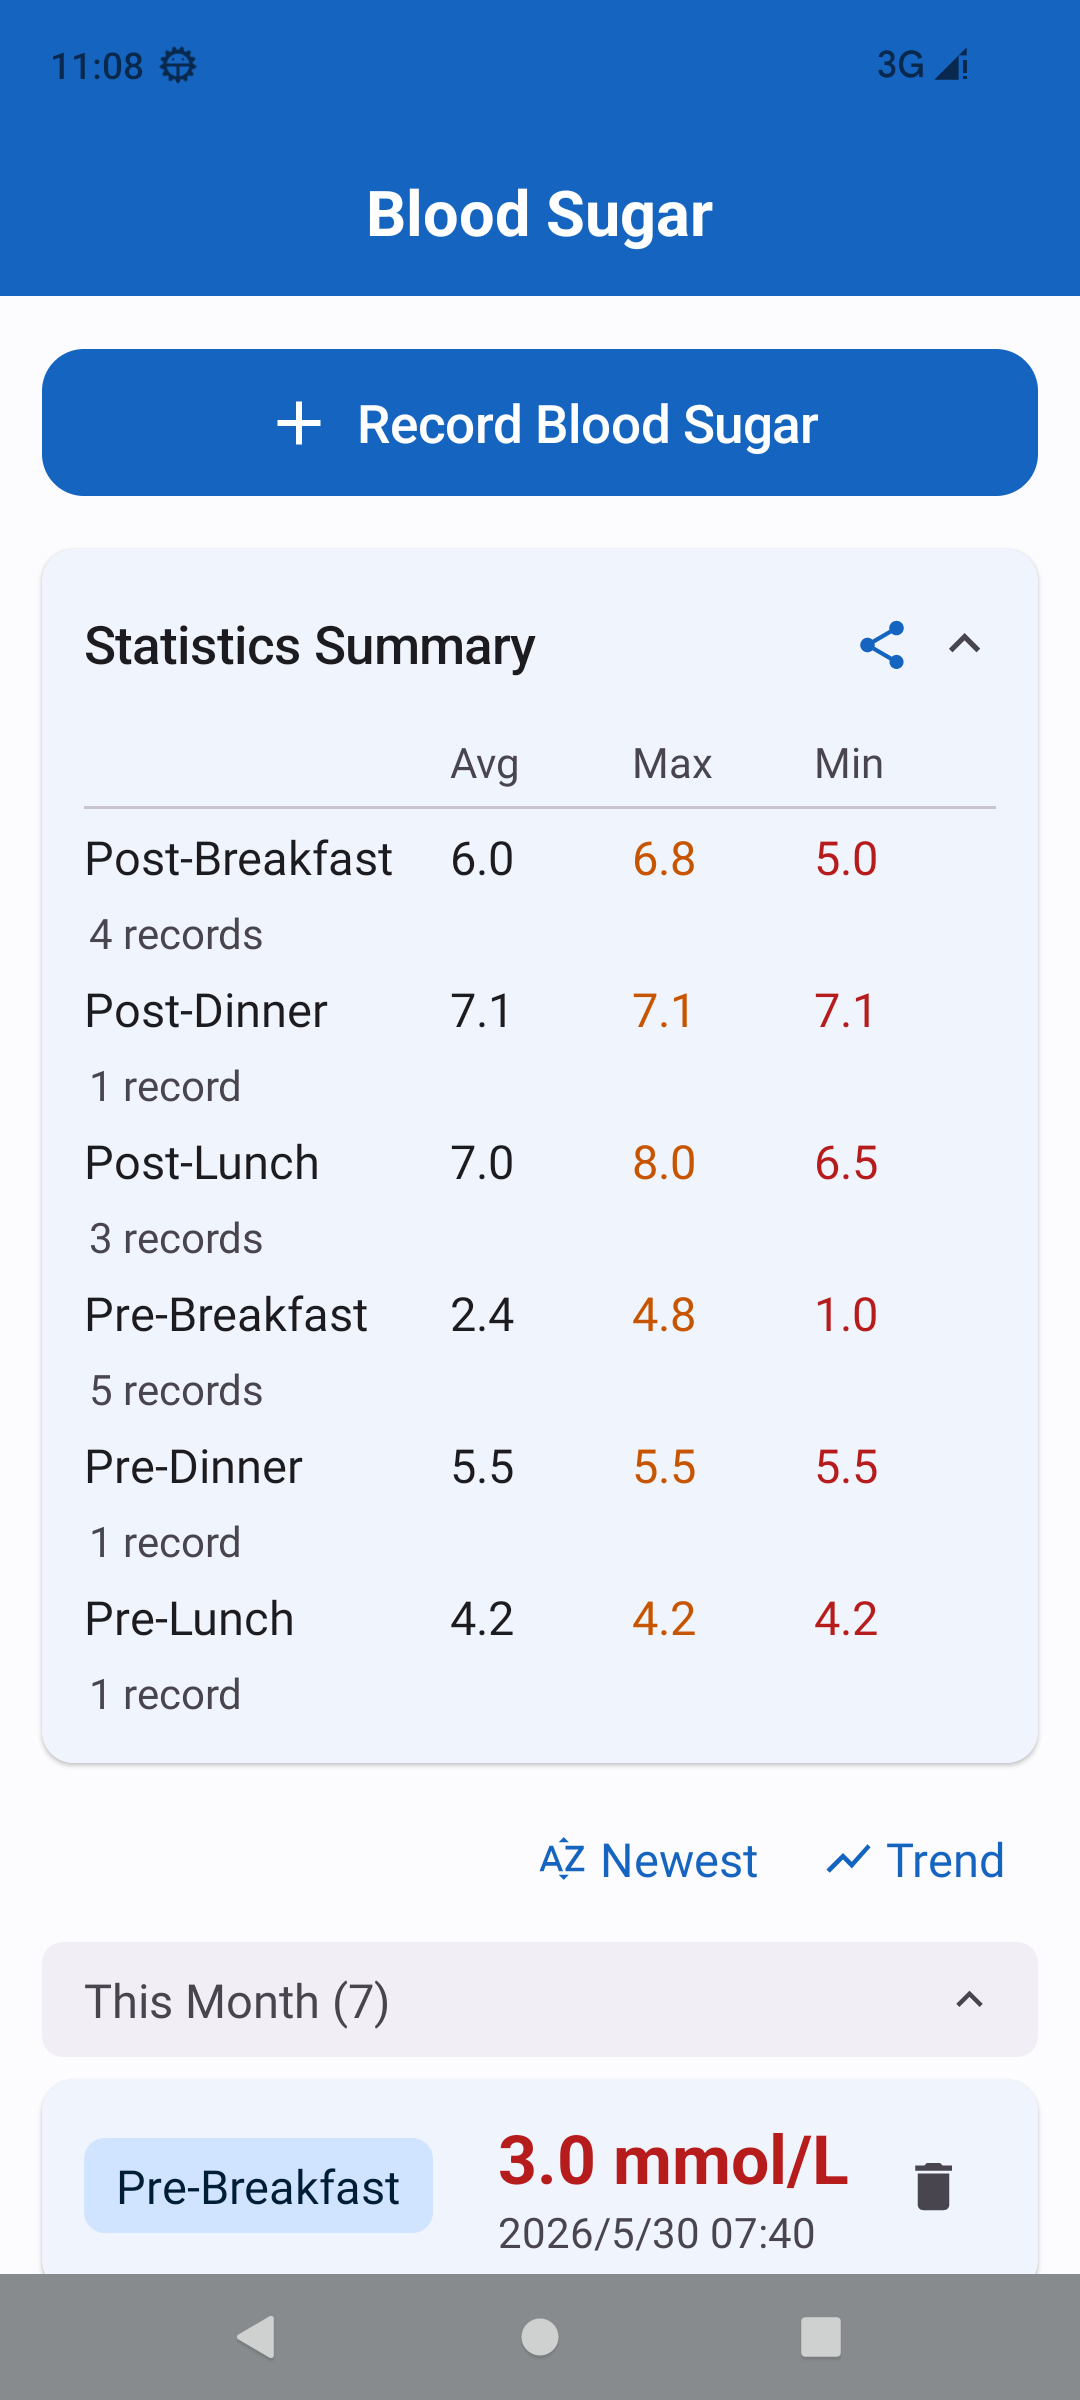
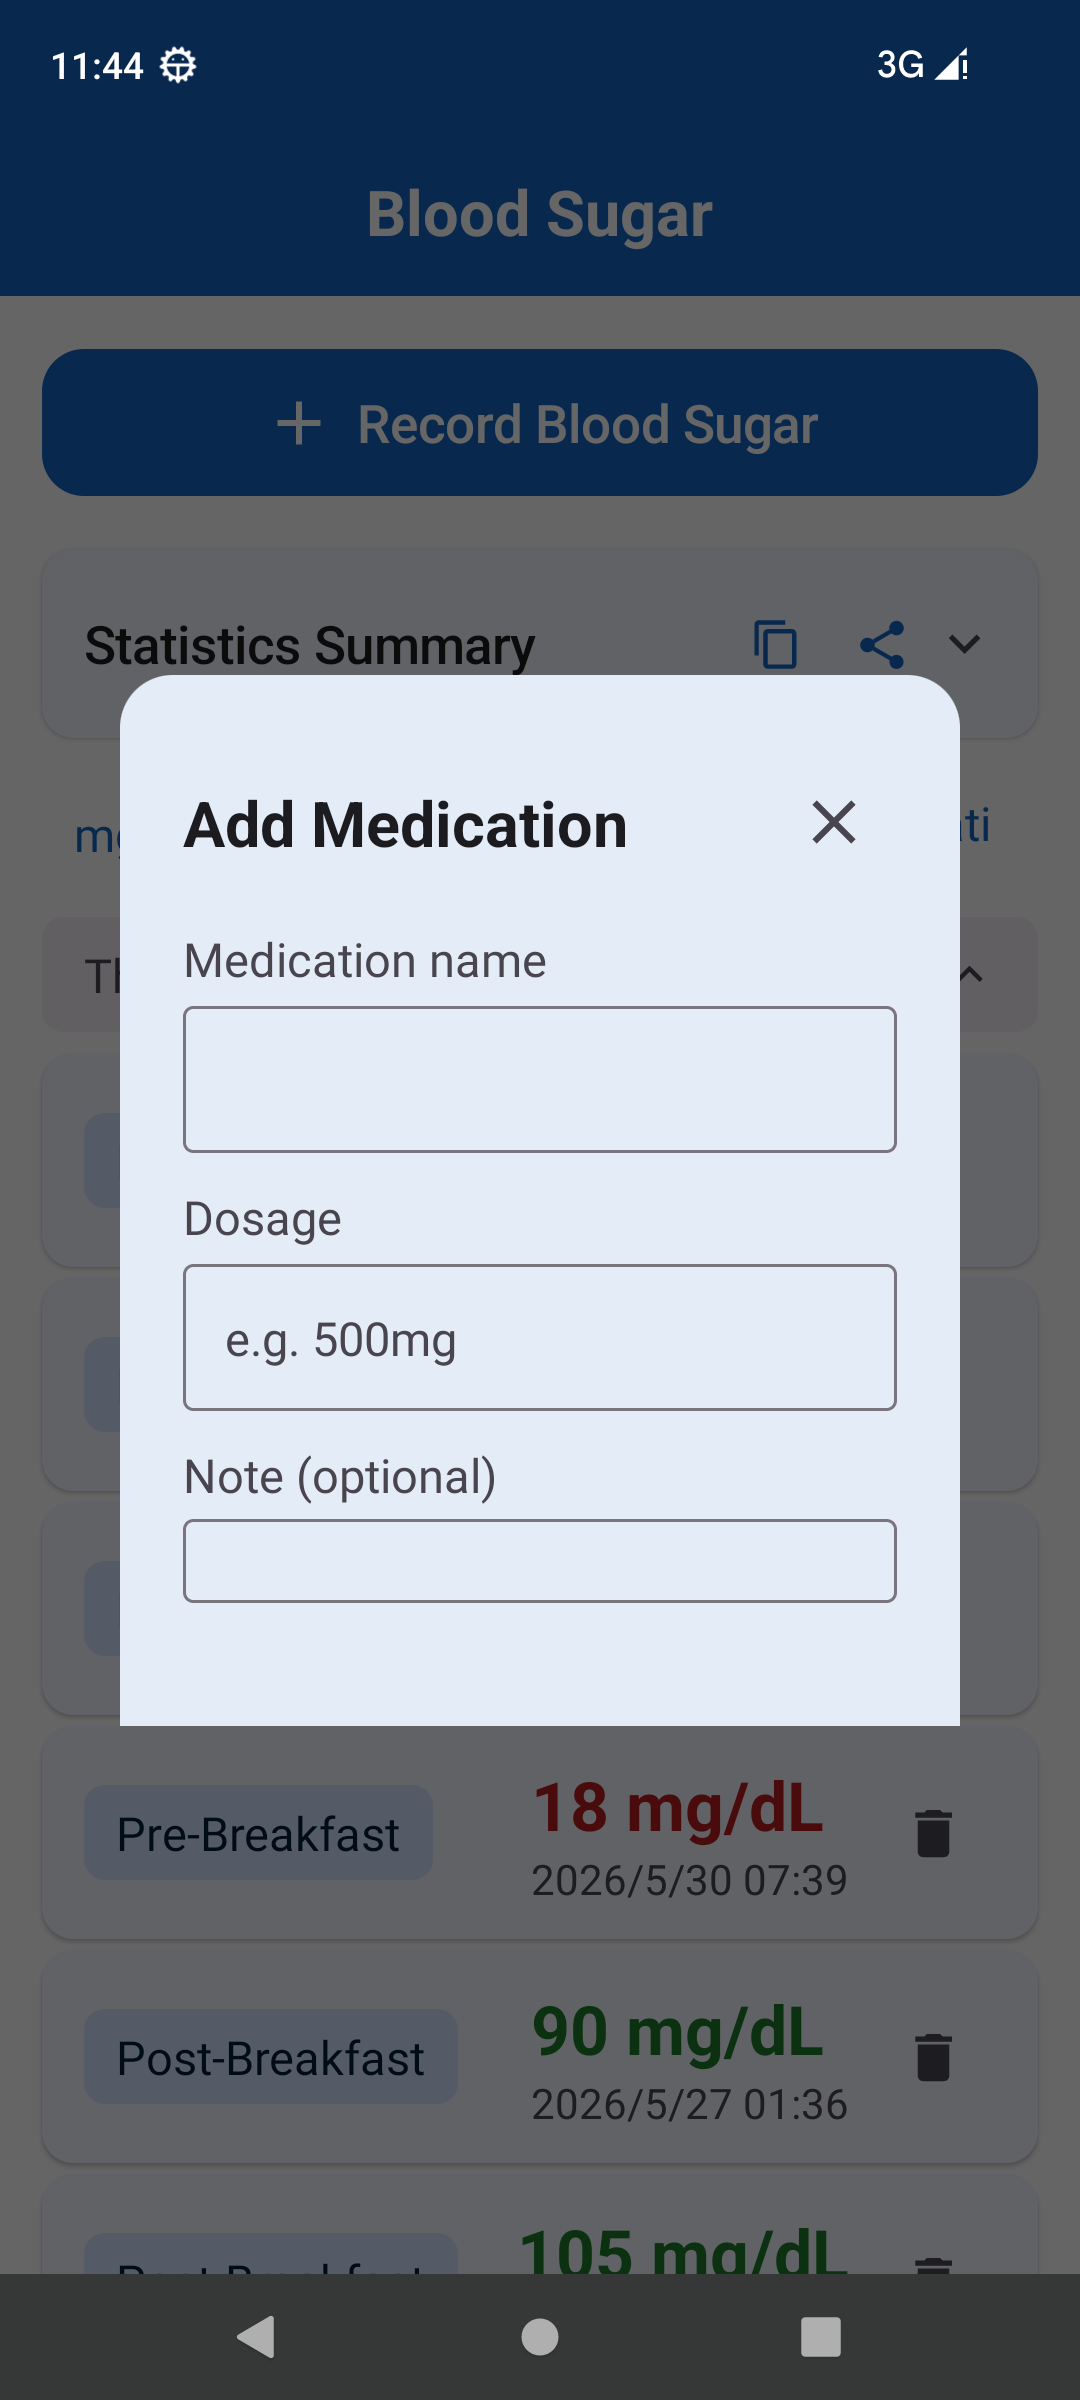
docs: update name to Mars, refresh screenshots and feature list
- LICENSE copyright: Mars
- README: add medication tracking, unit toggle, copy summary features
- Screenshots: 5 images (main, record, stats, trend, medication)
- Chinese README synced with English version

diff --git a/README.md b/README.md
@@ -16,9 +16,12 @@ A lightweight, offline-first Android blood sugar recording app designed for elde
 ## Features
 
 - **Quick Recording** — 6 meal segments (before/after breakfast, lunch, dinner) with automatic time-based inference
+- **Medication Tracking** — Log medications with name, dosage, and notes; edit/delete with one tap
 - **Statistics Summary** — Collapsible card showing average, max, min glucose per meal segment
+- **Unit Toggle** — Switch between mmol/L and mg/dL with one tap (persists across restarts)
 - **PDF Export** — One-tap report generation with stats + full record table, share via Bluetooth, email, or print
-- **Trend Chart** — Canvas-drawn line chart with month/year toggle, horizontal scroll, and normal-range indicator
+- **Copy Summary** — One-tap clipboard copy for quick sharing via messaging apps
+- **Trend Chart** — Smooth bezier curves with gradient fill, month/year toggle, and normal-range indicator
 - **Time Grouping** — Records grouped by This Month / This Year / Earlier with collapsible headers
 - **Bilingual** — Chinese and English UI, follows system language automatically
 - **Accessibility** — Large fonts for elderly users, WCAG AA color contrast for glucose status indicators
@@ -27,9 +30,9 @@ A lightweight, offline-first Android blood sugar recording app designed for elde
 
 ## Screenshots
 
-| Main Screen | Record Dialog | Statistics | Trend Chart |
-|:-----------:|:------------:|:----------:|:-----------:|
-| ![Main](screenshots/main.png) | ![Record](screenshots/record.png) | ![Stats](screenshots/stats.png) | ![Trend](screenshots/trend.png) |
+| Main Screen | Record Dialog | Statistics | Trend Chart | Medications |
+|:-----------:|:------------:|:----------:|:-----------:|:-----------:|
+| ![Main](screenshots/main.png) | ![Record](screenshots/record.png) | ![Stats](screenshots/stats.png) | ![Trend](screenshots/trend.png) | ![Medication](screenshots/medication.png) |
 
 ## Tech Stack
 
@@ -52,17 +55,21 @@ app/src/main/java/com/bloodsugar/
 │   ├── AppDatabase.kt       # Room database with migration framework
 │   ├── Record.kt            # Entity: id, value, segment, note, timestamp
 │   ├── RecordDao.kt         # DAO: Flow queries + SQL aggregation
+│   ├── Medication.kt        # Entity: id, name, dosage, note, timestamp
+│   ├── MedicationDao.kt     # DAO: Flow queries for medications
 │   └── SegmentStats.kt      # Stats data class
 ├── ui/
 │   ├── MainScreen.kt        # Main UI: header + stats card + grouped list
 │   ├── MainViewModel.kt     # State management (MVVM)
 │   ├── RecordSheet.kt       # Record entry/edit dialog
-│   ├── ChartOverlay.kt      # Trend chart (Canvas-drawn)
+│   ├── MedicationSheet.kt   # Medication add/edit dialog
+│   ├── ChartOverlay.kt      # Trend chart (bezier curves + gradient)
 │   ├── StatsSummaryCard.kt  # Collapsible statistics card
 │   ├── PdfExporter.kt       # PDF report generation (zero dependencies)
 │   └── theme/               # Colors, typography, Material 3 theme
 └── util/
-    ├── GlucoseValidator.kt  # Input validation (1.0–33.3 mmol/L)
+    ├── GlucoseValidator.kt  # Input validation
+    ├── GlucoseUnit.kt       # mmol/L ↔ mg/dL conversion
     └── MealSegment.kt       # 6 meal segments + time-based inference
 ```
 
@@ -70,7 +77,7 @@ app/src/main/java/com/bloodsugar/
 - **Jetpack Compose** — 100% declarative UI
 - **Material 3** — Design system with light/dark theme
 - **StateFlow** — Reactive state management
-- **Unit Tests** — 15 tests covering glucose validation and meal segment logic
+- **Unit Tests** — 22 tests covering validation, unit conversion, and meal segments
 
 ## Building
 

diff --git a/README_zh.md b/README_zh.md
@@ -9,9 +9,12 @@
 ## 功能
 
 - **快速记录**：6 个餐段（早餐前/后、午餐前/后、晚餐前/后），时间自动推断
+- **药物记录**：记录药物名称、剂量、备注，支持编辑和删除
 - **统计摘要**：按餐段分组显示平均值、最高、最低、记录数
+- **单位切换**：一键切换 mmol/L 和 mg/dL，设置跨启动保留
 - **PDF 导出**：一键生成血糖报告，支持微信/蓝牙/打印分享给医生
-- **趋势图**：Canvas 自绘折线图，支持月/年切换，横向滚动
+- **复制摘要**：一键复制统计信息到剪贴板，方便发微信给医生
+- **趋势图**：贝塞尔平滑曲线 + 渐变填充，支持月/年切换
 - **时间分组**：本月 / 今年 / 更早，可折叠，空分组隐藏
 - **排序**：最新优先 / 最旧优先切换
 - **中英双语**：跟随系统语言自动切换
@@ -21,9 +24,9 @@
 
 ## 截图
 
-| 主界面 | 记录弹窗 | 统计摘要 | 趋势图 |
-|:------:|:--------:|:--------:|:--------:|
-| ![主界面](screenshots/main.png) | ![记录弹窗](screenshots/record.png) | ![统计摘要](screenshots/stats.png) | ![趋势图](screenshots/trend.png) |
+| 主界面 | 记录弹窗 | 统计摘要 | 趋势图 | 药物记录 |
+|:------:|:--------:|:--------:|:------:|:--------:|
+| ![主界面](screenshots/main.png) | ![记录弹窗](screenshots/record.png) | ![统计摘要](screenshots/stats.png) | ![趋势图](screenshots/trend.png) | ![药物记录](screenshots/medication.png) |
 
 ## 技术栈
 